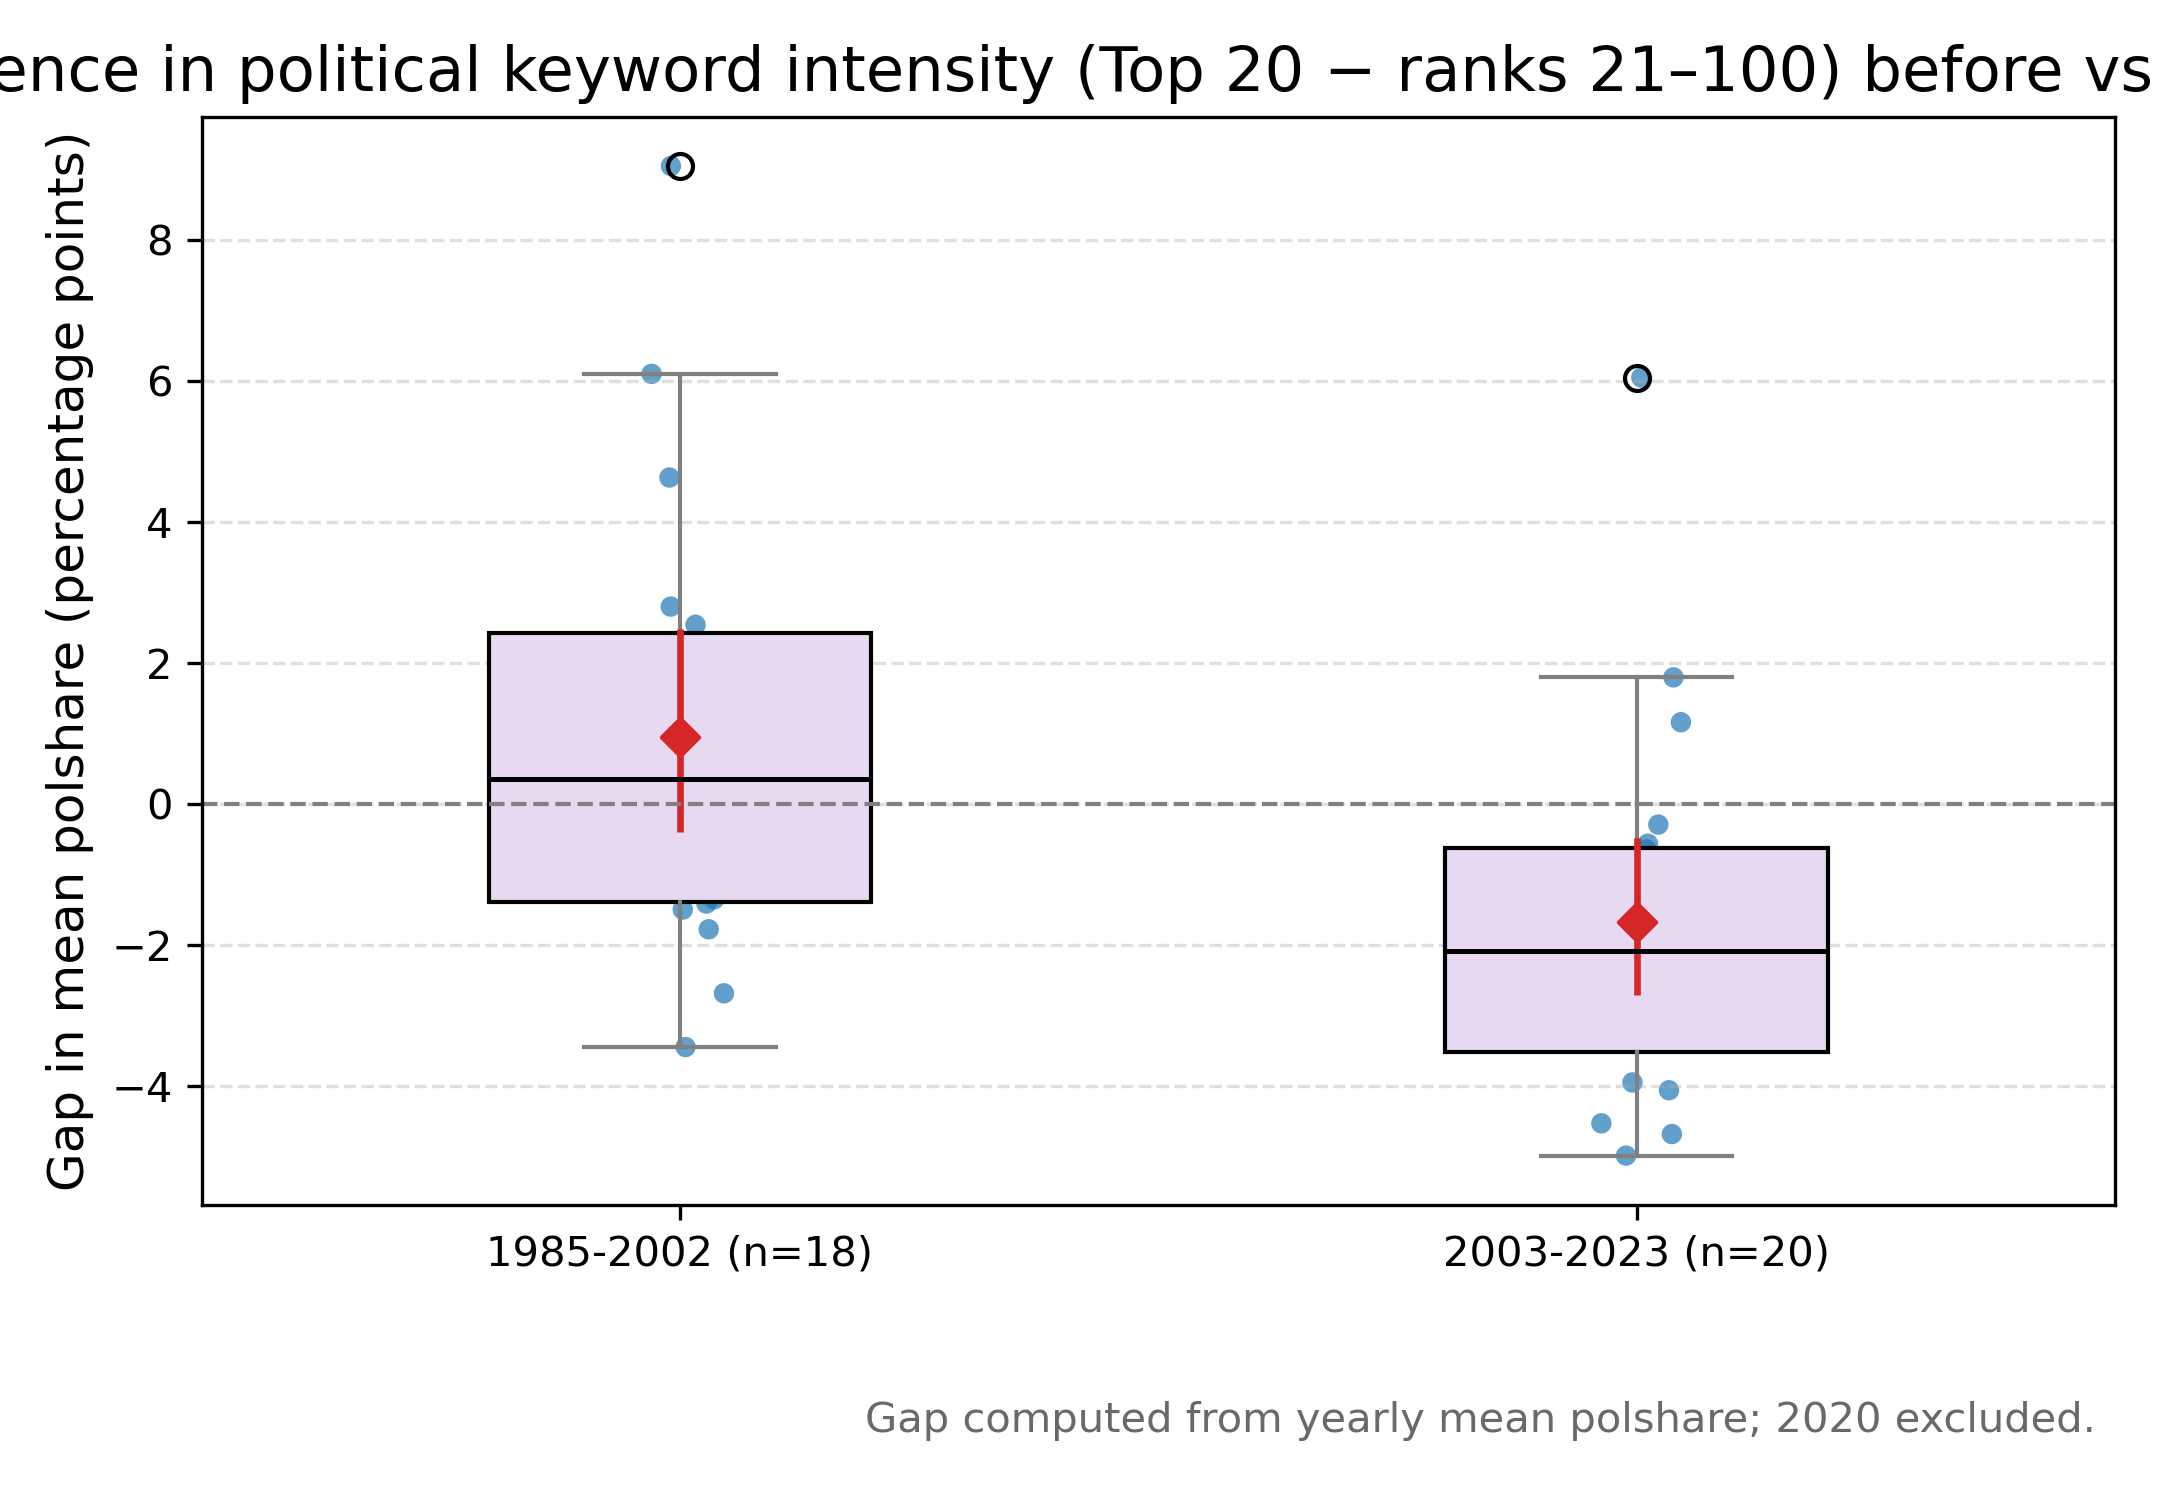
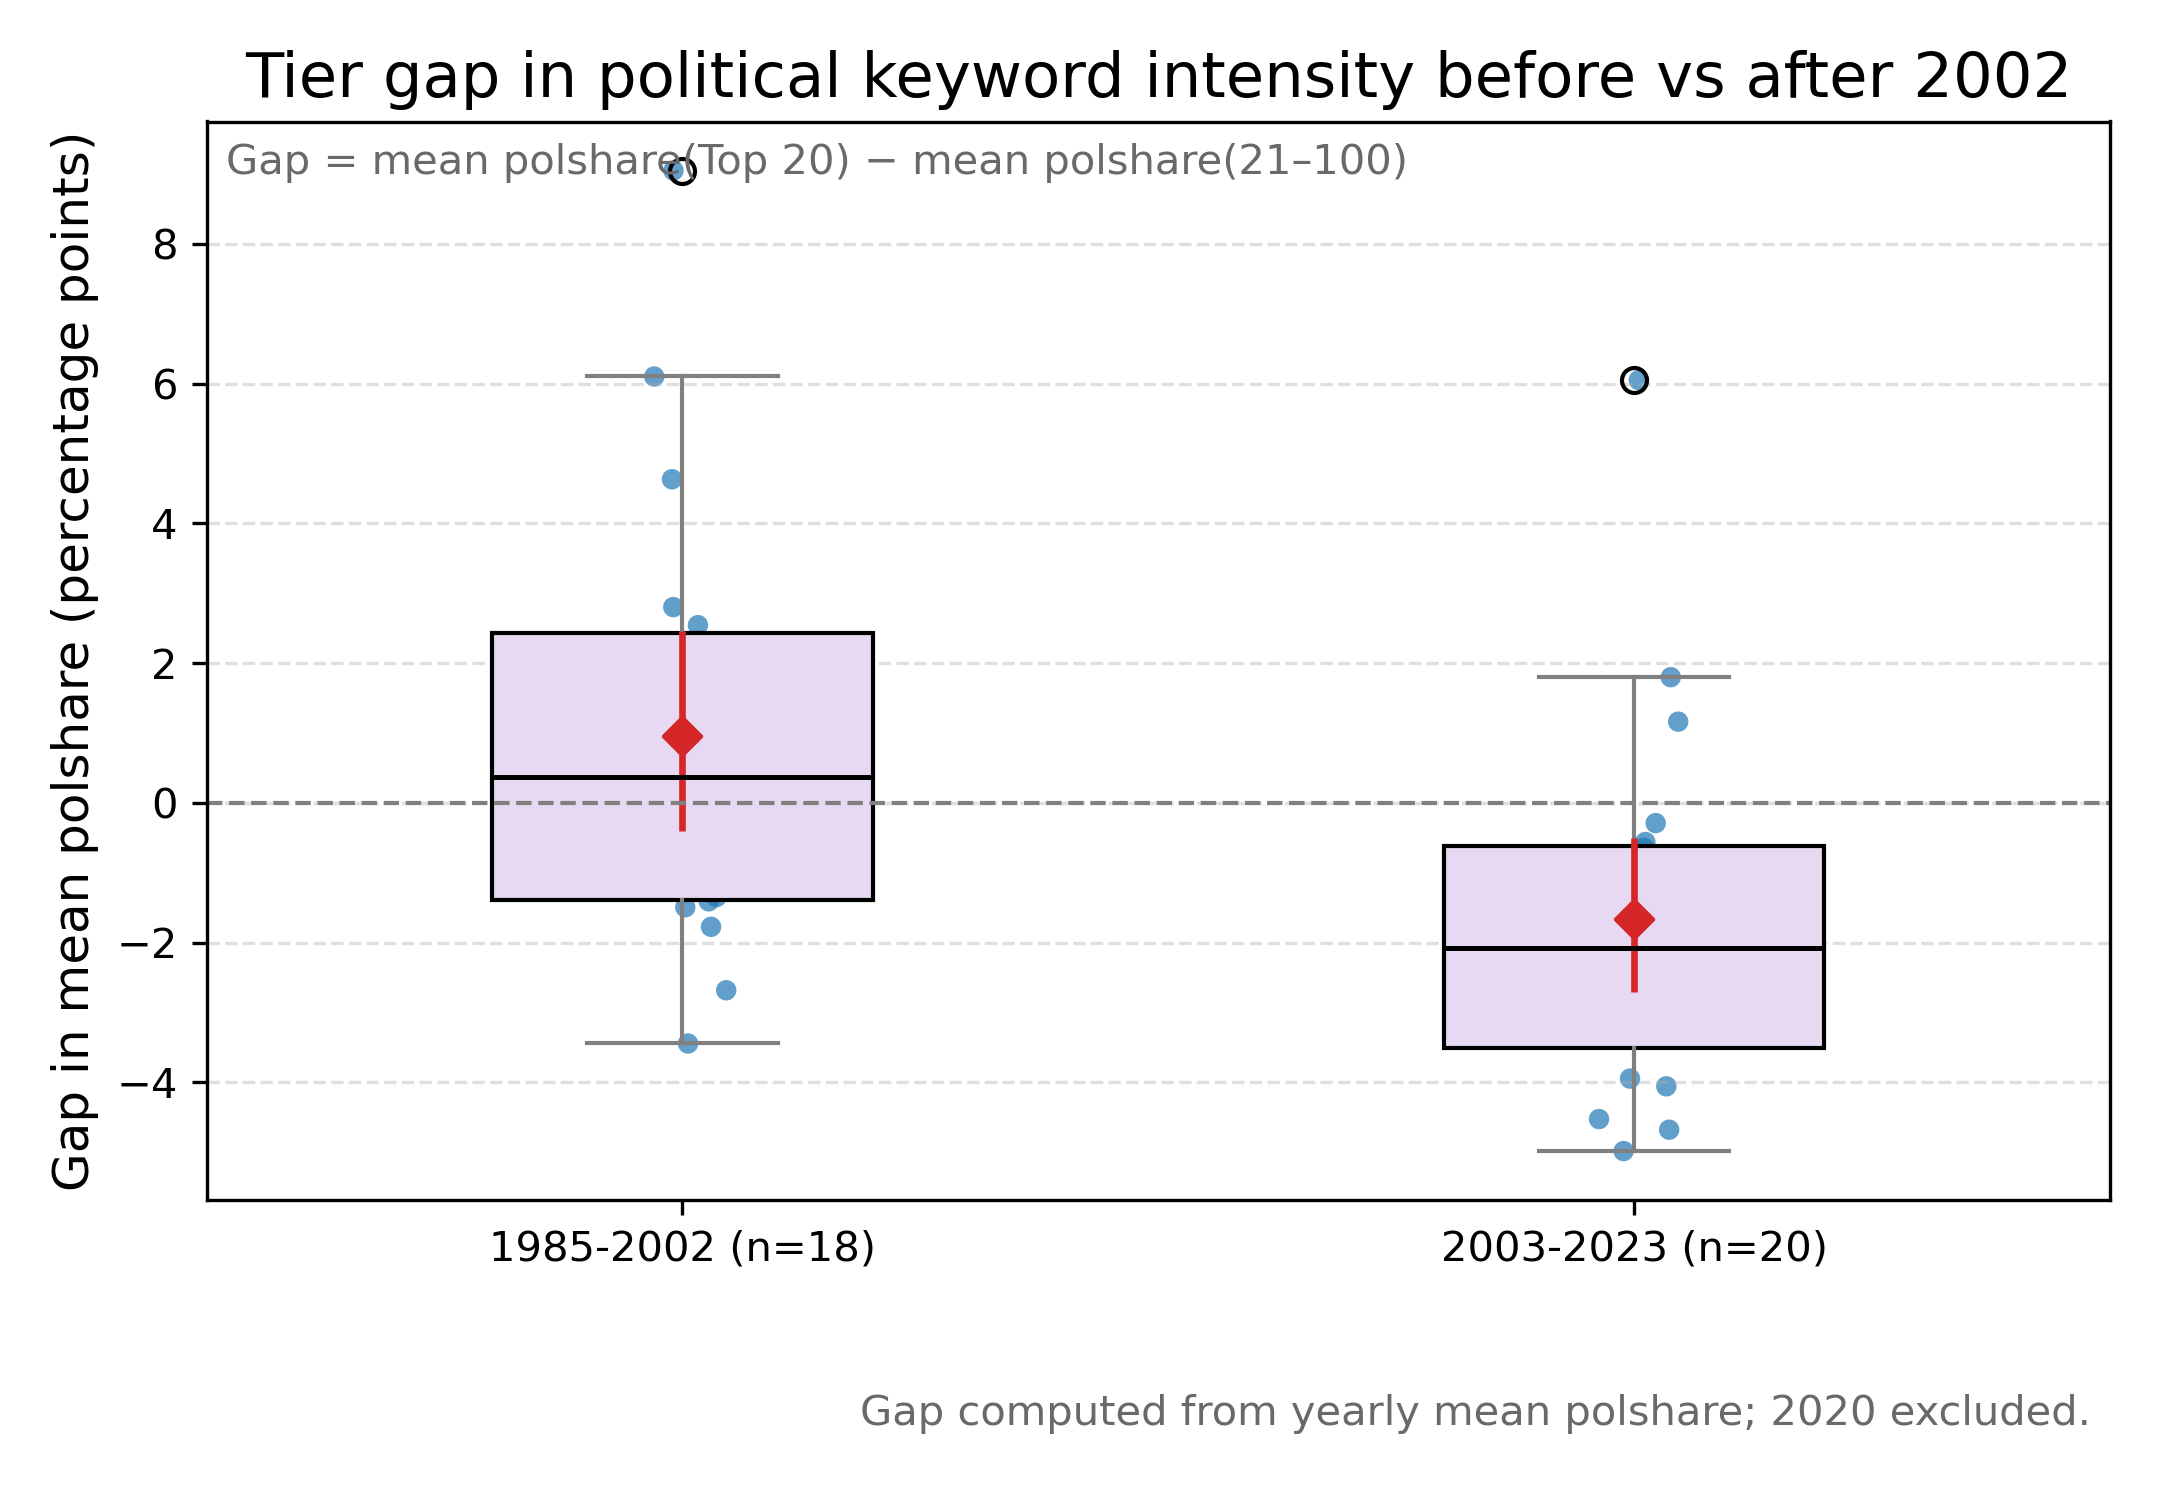
Polish tier extra plots: shorter title + gap definition

diff --git a/scripts/make_tier_extra_plots.py b/scripts/make_tier_extra_plots.py
@@ -112,7 +112,17 @@ def make_distribution_plot(df: pd.DataFrame, outpath: Path):
         fontsize=10,
         color="dimgray",
     )
-    fig.tight_layout()
+    ax.text(
+        0.99,
+        -0.26,
+        "Points = yearly means",
+        transform=ax.transAxes,
+        ha="right",
+        va="top",
+        fontsize=10,
+        color="dimgray",
+    )
+    fig.tight_layout(pad=1.2)
     fig.savefig(outpath, dpi=300)
     plt.close(fig)
 
@@ -158,8 +168,18 @@ def make_gap_plot(df: pd.DataFrame, outpath: Path, max_year: int):
     ax.set_xticks(positions)
     ax.set_xticklabels(labels)
     ax.set_ylabel("Gap in mean polshare (percentage points)", fontsize=12)
-    ax.set_title("Difference in political keyword intensity (Top 20 − ranks 21–100) before vs after 2002", fontsize=15)
+    ax.set_title("Tier gap in political keyword intensity before vs after 2002", fontsize=15)
     ax.grid(True, axis="y", linestyle="--", alpha=0.4)
+    ax.text(
+        0.01,
+        0.98,
+        "Gap = mean polshare(Top 20) − mean polshare(21–100)",
+        transform=ax.transAxes,
+        ha="left",
+        va="top",
+        fontsize=10,
+        color="dimgray",
+    )
     ax.text(
         0.99,
         -0.18,
@@ -170,7 +190,7 @@ def make_gap_plot(df: pd.DataFrame, outpath: Path, max_year: int):
         fontsize=10,
         color="dimgray",
     )
-    fig.tight_layout()
+    fig.tight_layout(pad=1.2)
     fig.savefig(outpath, dpi=300)
     plt.close(fig)
 
